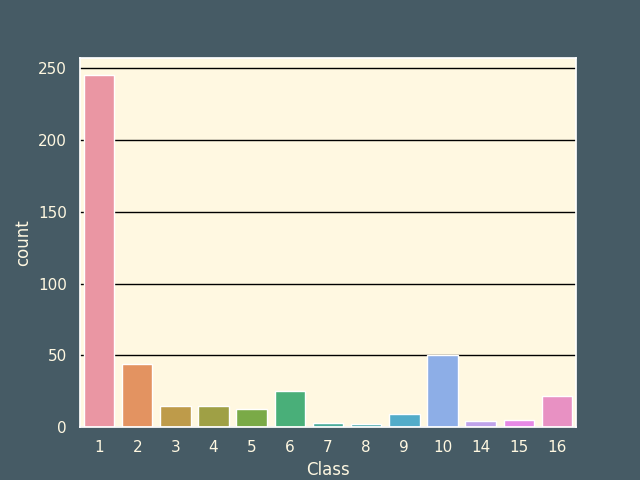
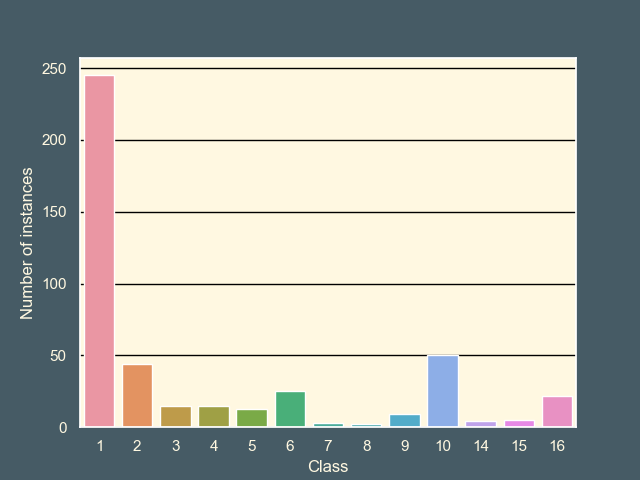
Made more changes

diff --git a/mlarrhythmia_code/SupportVectorClassification.py b/mlarrhythmia_code/SupportVectorClassification.py
@@ -1,0 +1,34 @@
+from sklearn import svm
+from sklearn.metrics import classification_report, confusion_matrix
+from sklearn.model_selection import train_test_split
+from PrincipalComponentAnalysis import GetDataPCA
+
+classes, _, data = GetDataPCA(0.99)
+
+data['Class'] = data['Class'].apply(lambda x: 1 if x > 1 else 0)
+X = data.drop('Class', axis=1)
+y = data['Class']
+
+X_train, X_test, y_train, y_test = train_test_split(X, y, test_size=0.2)
+
+kernals = ['linear', 'poly', 'rbf', 'sigmoid']
+for ker in kernals:
+    model = svm.SVC(kernel=ker)
+    model.fit(X_train, y_train)
+    y_pred = model.predict(X_test)
+
+    confusion_mat = confusion_matrix(y_test, y_pred)
+    
+    print(confusion_matrix(y_test, y_pred))
+    print(classification_report(y_test, y_pred))
+
+'''
+kernalScore = np.zeros(4)
+for iteration in range(1, 101):
+    X_train, X_test, y_train, y_test = train_test_split(X, y, test_size=0.2)
+    for idx, ker in enumerate(kernals):
+        clf = svm.SVC(kernel=ker).fit(X_train, y_train)
+        kernalScore[idx] += clf.score(X_test, y_test)
+
+    if iteration%10 == 0:
+        print(kernalScore/iteration, iteration)'''

diff --git a/mlarrhythmia_code/PrincipalComponentAnalysis.py b/mlarrhythmia_code/PrincipalComponentAnalysis.py
@@ -2,13 +2,12 @@ from sklearn.preprocessing import StandardScaler
 from sklearn.decomposition import PCA
 import matplotlib.pyplot as plt
 import seaborn as sns
-from dataImport import *
+from DataImport import *
 from SeabornTheme import *
 
 def GetDataPCA(rv = 0):
     #Get the data and fix missing values
     classes, df = GetDataClean()
-    df = df.fillna(df.median())
     data = df.drop("Class", axis=1)
 
     #Scale the data
@@ -28,10 +27,10 @@ def GetDataPCA(rv = 0):
     return classes, pca, df_transformed
 
 if __name__ == "__main__":
-    print(len(GetDataPCA(0.95)[0].explained_variance_ratio_))
-    print(len(GetDataPCA(0.99)[0].explained_variance_ratio_))
+    print(len(GetDataPCA(0.95)[1].explained_variance_ratio_))
+    print(len(GetDataPCA(0.99)[1].explained_variance_ratio_))
 
-    pca, _ = GetDataPCA()
+    _, pca, _ = GetDataPCA()
 
     #Plot the data
     explained_variance = pca.explained_variance_ratio_

diff --git a/mlarrhythmia_code/dataImport.py b/mlarrhythmia_code/dataImport.py
@@ -1,5 +1,6 @@
 import pandas as pd
-import numpy as np
+import matplotlib.pyplot as plt
+from SeabornTheme import *
 
 def GetData():
     url = 'https://archive.ics.uci.edu/ml/machine-learning-databases/arrhythmia/arrhythmia.data'
@@ -11,6 +12,7 @@ def GetData():
 def GetDataClean():
     classes, df = GetData()
     df = df.drop('J', axis=1)
+    df = df.fillna(df.median())
     return classes, df
 
 if __name__ == "__main__":
@@ -20,3 +22,10 @@ if __name__ == "__main__":
     percent_missing = missing / len(df)
     percent_missing_nonzero = percent_missing[percent_missing > 0]
     print(percent_missing_nonzero)
+
+    setTheme()
+    class_counts = df["Class"].value_counts()
+    sns.barplot(x = class_counts.index, y = class_counts.values)
+    plt.xlabel('Class')
+    plt.ylabel('Number of instances')
+    plt.savefig('mlarrhythmia_present/class_distribution.png', format='png')

diff --git a/mlarrhythmia_present/presentation.md b/mlarrhythmia_present/presentation.md
@@ -123,17 +123,14 @@ Heart rate    0.002212
 def GetDataClean():
     classes, df = GetData()
     df = df.drop('J', axis=1)
+    df = df.fillna(df.median())
     return classes, df
 ```
 </div>
 </div>
 
-
-
 <!--
-As you can see 5 of the attributes contain missing data with J being the worst as 83% of its data is missing. for this reason im gonna drop this column from the data set
-
-
+As you can see 5 of the attributes contain missing data with J being the worst as 83% of its data is missing. for this reason I'm gonna drop this column from the data set, and for the rest I'm going to replace it by their respective median value as median is less susceptible to outliers.
 -->
 
 ---
@@ -142,8 +139,8 @@ As you can see 5 of the attributes contain missing data with J being the worst a
 <div class ="columns">
 <div>
 
-95% - 103 axes
-99% - 154 axes
+95% - 102 axes
+99% - 153 axes
 ![height:425px](variance_plot.png)
 
 
@@ -154,7 +151,6 @@ As you can see 5 of the attributes contain missing data with J being the worst a
 def GetDataPCA(rv = 0):
     #Get the data and fix missing values
     classes, df = GetDataClean()
-    df = df.fillna(df.median())
     data = df.drop("Class", axis=1)
 
     #Scale the data
@@ -185,122 +181,32 @@ print(len(GetDataPCA(0.99)[0].explained_variance_ratio_))
 <!--
 A way to reduce dimensionality of the data is with Principal Component Analysis. The main goal of PCA is to reframe the data to make it easier to separate things out and cluster things, and as a result the resulting axes are also ordered from the most to least useful, and with this we can then reduce the dimensionality by discarding the maybe not so important axes.
 
-Before applying PCA it is a must to standardized the data, so all of the attributes are centered around zero and have a standard deviation of one. This is because PCA is sensitive to the scale of the features, and features on larger scales can dominate the result.
+Before applying PCA it is a must to standardize the data, so all of the attributes are centered around zero and have a standard deviation of one. This is because PCA is sensitive to the scale of the features, and features on larger scales can dominate the result.
 
-By taking the cumulative explained variance and plotting we can se that the first 103 axes explain 95% of the data with 154 explaining 99%
+By taking the cumulative explained variance and plotting we can se that the first 103 axes explain 95% of the data with 154 explaining 99% this means we can drop almost half the number of axes and only loose 1% of the explained variance
 -->
 ---
+# Unsupervised Learning with Clustering Algorithms
 
-## intra/inter Class distances
-
-```python
-df = GetArrhythmiaDataFrame()
-
-# Extract the labels and features from the DataFrame
-labels = df['Class'].values
-features = df.drop('Class', axis=1).values
-
-# Calculate the intra-class distances for each class
-intra_class_dists = {}
-for label in np.unique(labels):
-    class_mask = (labels == label)
-    class_features = features[class_mask]
-    intra_class_dists[label] = np.mean(pdist(class_features))
-
-# Print the average intra-class distances
-print(intra_class_dists)
-
-inter_class_dists = []
-for label_1 in np.unique(labels):
-    for label_2 in np.unique(labels):
-        if label_1 == label_2:
-            continue
-        class_1_mask = (labels == label_1)
-        class_2_mask = (labels == label_2)
-        class_1_features = features[class_1_mask]
-        class_2_features = features[class_2_mask]
-        combined_features = np.concatenate((class_1_features, class_2_features))
-        inter_class_dists.append(np.min(pdist(combined_features)))
-
-# Print the minimum inter-class distance
-print(np.min(inter_class_dists))
-```
+<!--
+KMeans is an unsupervised learning algorithm that divides a set of data points into clusters based on the similarity of their features. It does this by trying to minimize the sum of the distances between the data points and the centroids (i.e., the center points) of the clusters.
+-->
 ---
+# Supervised Learning with Support Vector Machines
 
-<div class ="columns">
-<div>
-
-## Intra-Class distance
-<div class ="columns">
-<div>
-
-1. 227
-2. 323
-3. 332
-4. 229
-5. 367
-6. 233
-7. 294
-8. 362
-
-</div>
-<div>
-
-9. 482
-10. 282
-11. n/a
-12. n/a
-13. n/a
-14. 305
-15. 266
-16. 304
-
-</div>
-</div>
-
-</div>
-<div>
-
-## Inter-class distance
-- count 156
-- mean 117
-- median 113
-- std 42
-- min 74
-- max 262
-
-</div>
-</div>
+<!--
+SVMs, on the other hand, are a type of linear model that can be used for classification and regression tasks. They work by finding the hyperplane in a high-dimensional space that maximally separates the different classes. In the case of classification tasks, the goal is to find the hyperplane that maximally separates the different classes, while in the case of regression tasks, the goal is to find the hyperplane that best fits the data.
+-->
 
 ---
+# Machine learning with a Convolutional Neural Networks
 
-## Quadratic
+<!--
 
-```python
-#Get the DataFrame
-df = GetArrhythmiaDataFrame()
-
-data = df.drop("Class", axis=1)
-lables = df.loc[:,"Class"]
-
-#Normalize data to alleviate features scale affecting the results
-data_normalized = scale(data)
-
-X_train, X_test, y_train, y_test = train_test_split(data_normalized, lables, test_size=0.2)
-
-#Apply PCA
-pca = PCA(0.95)
-X_train_reduced = pca.fit_transform(X_train)
-X_test_reduced = pca.transform(X_test)
-print(pca.n_components_)
-
-clf = SVC(kernel='poly', degree=2)
-clf.fit(X_train, y_train)
-accuracy = clf.score(X_test, y_test)
-print(accuracy)
-```
+-->
 ---
+# Conclusion
 
-95% of retained variance
-Components: 93
-accuracy: 63%
+<!--
+I aint no data sientist
+-->
